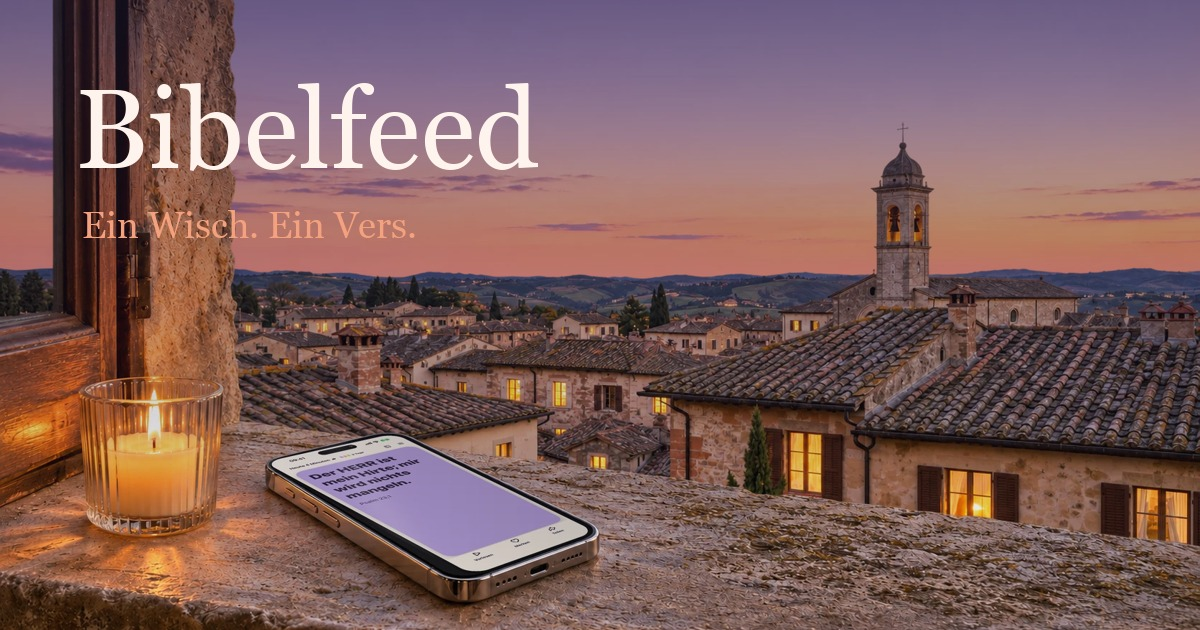
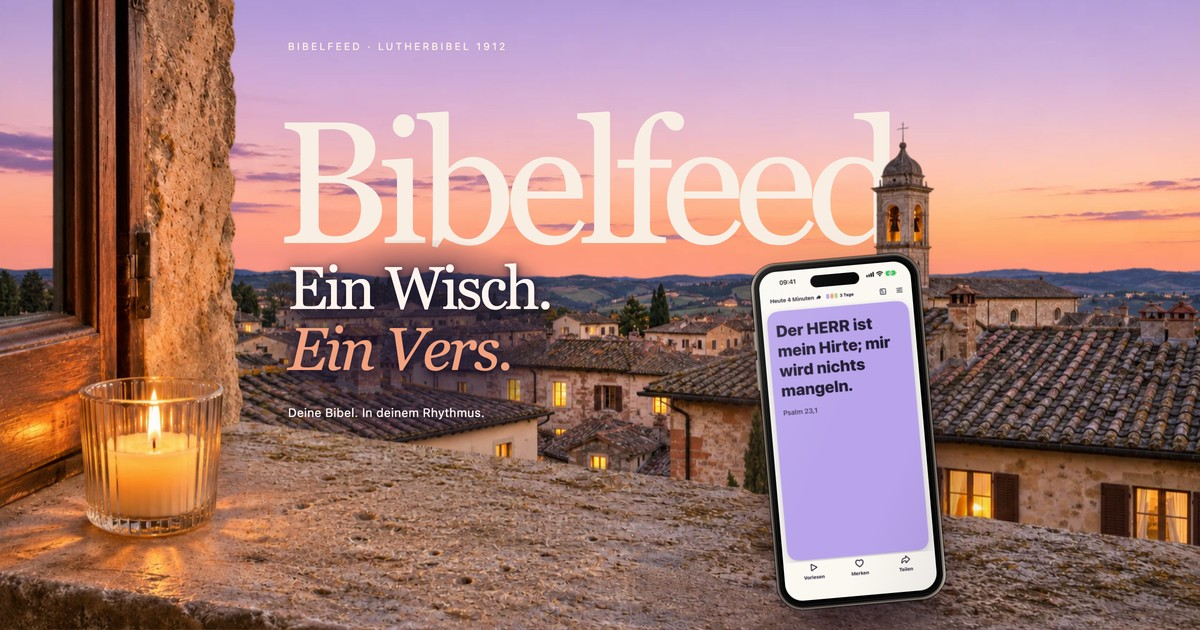
Hero: echte iPhone met echtem App-Screen, ruhiger Scroll, neue Teilbilder

diff --git a/fr/index.html b/fr/index.html
@@ -2,7 +2,7 @@
 <html lang="fr">
 <head><meta charset="utf-8"><meta name="viewport" content="width=device-width, initial-scale=1"><meta http-equiv="Content-Security-Policy" content="default-src 'self'; img-src 'self' data: https://bibelfeed.goatcounter.com; connect-src 'self' https://bibelfeed.goatcounter.com; style-src 'self'; font-src 'self'; script-src 'self' 'sha256-GoWYoYjQWsyZ1hkBcFPs6ibdLD/bIVbTo3fsq00e+0I='; object-src 'none'; base-uri 'self'; form-action 'none'"><title>Bible sur iPhone et iPad, lecture et écoute | Bibelfeed</title><meta name="description" content="Bible sur iPhone et iPad avec Bibelfeed : lis et écoute la Louis Segond 1910 hors ligne, sans compte. Bientôt sur l’App Store."><meta name="theme-color" content="#17121f"><meta name="color-scheme" content="dark"><link rel="canonical" href="https://bibelfeed.online/fr/"><link rel="alternate" hreflang="de" href="https://bibelfeed.online/"><link rel="alternate" hreflang="fr" href="https://bibelfeed.online/fr/"><link rel="alternate" hreflang="x-default" href="https://bibelfeed.online/"><meta property="og:type" content="website"><meta property="og:title" content="Bible sur iPhone et iPad, lecture et écoute | Bibelfeed"><meta property="og:description" content="Bible sur iPhone et iPad avec Bibelfeed : lis et écoute la Louis Segond 1910 hors ligne, sans compte. Bientôt sur l’App Store."><meta property="og:site_name" content="Bibelfeed"><meta property="og:url" content="https://bibelfeed.online/fr/"><meta property="og:locale" content="fr_FR"><meta property="og:locale:alternate" content="de_DE"><meta property="og:image" content="https://bibelfeed.online/assets/share-fr.webp"><meta property="og:image:width" content="1200"><meta property="og:image:height" content="630"><meta property="og:image:alt" content="Bible sur iPhone et iPad, lecture et écoute | Bibelfeed"><meta name="twitter:card" content="summary_large_image"><meta name="twitter:image" content="https://bibelfeed.online/assets/share-fr.webp"><meta name="twitter:image:alt" content="Bible sur iPhone et iPad, lecture et écoute | Bibelfeed"><link rel="icon" href="/assets/favicon-32.png" sizes="32x32"><link rel="apple-touch-icon" href="/assets/apple-touch-icon.png"><link rel="stylesheet" href="/style.css"><link rel="stylesheet" href="/v2.css"><script data-goatcounter="https://bibelfeed.goatcounter.com/count" async src="/assets/count.js"></script><script src="/demo.js" defer></script><script src="/site.js" defer></script><script type="application/ld+json">{"@context":"https://schema.org","@graph":[{"@context":"https://schema.org","@type":"MobileApplication","name":"Bibelfeed","operatingSystem":"iOS","applicationCategory":"ReferenceApplication","inLanguage":"fr","description":"Un verset par geste, Louis Segond 1910, lu à voix haute si tu veux. Sans compte, sans données.","url":"https://bibelfeed.online/fr/","screenshot":"https://bibelfeed.online/assets/screens/fr/w1-feed.webp","featureList":["App iOS pour iPhone et iPad","Lutherbibel 1912 et Louis Segond 1910, dans le domaine public","Allemand et français","Lecture hors ligne","Sans compte","Sans serveur propre pour tes données","Lecture vocale avec la voix de l’appareil","Garder des versets","Partager des versets en image","Widget","Plus : cartes et lecture vocale illimitées, thèmes Papier et Nuit"]},{"@type":"FAQPage","mainEntity":[{"@type":"Question","name":"Quelle traduction est proposée ?","acceptedAnswer":{"@type":"Answer","text":"Tu lis la Bible Louis Segond 1910 en français. En allemand, Bibelfeed utilise la Lutherbibel 1912. Ces deux textes appartiennent au domaine public."}},{"@type":"Question","name":"Puis-je lire sans connexion ?","acceptedAnswer":{"@type":"Answer","text":"Oui. Le texte biblique est inclus dans l’app. Tu peux lire sans connexion Internet. La lecture vocale utilise les voix installées sur ton appareil."}},{"@type":"Question","name":"Faut-il créer un compte ?","acceptedAnswer":{"@type":"Answer","text":"Non. Tu peux utiliser Bibelfeed sans inscription et sans te connecter à un compte."}},{"@type":"Question","name":"Quelles données l’app collecte-t-elle ?","acceptedAnswer":{"@type":"Answer","text":"L’app fonctionne sans serveur propre, sans compte et sans suivi. Tes versets gardés et ta position de lecture restent sur ton appareil. Apple gère les achats et les abonnements."}},{"@type":"Question","name":"Est-ce que je peux écouter les versets ?","acceptedAnswer":{"@type":"Answer","text":"Oui. La voix de ton iPhone peut lire les versets à la suite. Bibelfeed utilise les voix déjà installées sur ton appareil."}},{"@type":"Question","name":"Un widget est-il disponible ?","acceptedAnswer":{"@type":"Answer","text":"Oui. Dans la version 1.0, le widget « Verset du jour » fait partie de l’app gratuite. Tu peux l’ajouter depuis l’écran d’accueil de ton iPhone."}},{"@type":"Question","name":"Comment garder un verset ?","acceptedAnswer":{"@type":"Answer","text":"Touche le cœur dans l’app. Le verset est enregistré sur ton appareil pour que tu puisses le relire plus tard."}},{"@type":"Question","name":"Que propose Bibelfeed Plus ?","acceptedAnswer":{"@type":"Answer","text":"Plus permet de lire un nombre illimité de cartes et d’utiliser la lecture vocale sans limite. Il donne aussi accès aux thèmes Papier et Nuit. Le widget reste disponible sans Plus."}},{"@type":"Question","name":"Puis-je utiliser Bibelfeed sur iPad ?","acceptedAnswer":{"@type":"Answer","text":"Oui. Bibelfeed est disponible sur iPhone et iPad. Le site présente aussi un véritable écran de l’app sur iPad."}},{"@type":"Question","name":"Comment résilier un abonnement ?","acceptedAnswer":{"@type":"Answer","text":"Ouvre les réglages de ton iPhone ou de ton iPad, touche ton nom, puis Abonnements. Sélectionne Bibelfeed pour gérer la résiliation auprès d’Apple."}}]},{"@type":"Organization","@id":"https://bibelfeed.online/#organization","name":"Bibelfeed","url":"https://bibelfeed.online/","logo":"https://bibelfeed.online/assets/apple-touch-icon.png"},{"@type":"WebSite","@id":"https://bibelfeed.online/#website","name":"Bibelfeed","url":"https://bibelfeed.online/","inLanguage":["de","fr"],"publisher":{"@id":"https://bibelfeed.online/#organization"}}]}</script></head>
 <body><a class="skip" href="#feed">Aller au contenu</a><nav class="ribbon" aria-label="Marque-page"><i class="ribbon-track"></i><i class="ribbon-progress"></i><a href="#beginn" aria-label="Accueil" title="Accueil"><svg viewBox="0 0 24 24" aria-hidden="true"><path d="M12 2v3m0 14v3M2 12h3m14 0h3M5 5l2 2m10 10 2 2M5 19l2-2M17 7l2-2 M16 12a4 4 0 1 1-8 0a4 4 0 1 1 8 0"/></svg></a><a href="#feed" aria-label="Lire" title="Lire"><svg viewBox="0 0 24 24" aria-hidden="true"><path d="M5 3h14v18H5Z M8 16h8 M8 12h5"/></svg></a><a href="#hoeren" aria-label="Écouter" title="Écouter"><svg viewBox="0 0 24 24" aria-hidden="true"><path d="M8 4l12 8-12 8Z"/></svg></a><a href="#merken" aria-label="Garder" title="Garder"><svg viewBox="0 0 24 24" aria-hidden="true"><path d="M20.8 4.6a5.5 5.5 0 0 0-7.8 0L12 5.7l-1.1-1.1a5.5 5.5 0 0 0-7.8 7.8L12 21l8.8-8.6a5.5 5.5 0 0 0 0-7.8Z"/></svg></a><a href="#widget" aria-label="Widget" title="Widget"><svg viewBox="0 0 24 24" aria-hidden="true"><path d="M4 20C4 7 12 3 21 3c0 11-5 18-14 14M4 20L16 8"/></svg></a><a href="#ipad" aria-label="iPad" title="iPad"><svg viewBox="0 0 24 24" aria-hidden="true"><path d="M5 3h14v18H5Z M8 16h8 M8 12h5"/></svg></a><a href="#privat" aria-label="Confidentialité" title="Confidentialité"><svg viewBox="0 0 24 24" aria-hidden="true"><path d="M12 2l9 4v6c0 5-9 10-9 10S3 17 3 12V6Z"/></svg></a><a href="#schluss" aria-label="Bibelfeed" title="Bibelfeed"><svg viewBox="0 0 24 24" aria-hidden="true"><path d="M5 3h14v19l-7-5-7 5Z"/></svg></a></nav><main>
-<section class="hero" id="beginn"><div class="hero-stage"><picture><source media="(max-width:820px)" srcset="/assets/bf-stad-p-lucht.webp"><img class="sky" src="/assets/bf-stad-lucht.webp" alt="" width="1672" height="941" fetchpriority="high"></picture><p class="edition">BIBELFEED · LOUIS SEGOND 1910</p><h1 class="hero-name">Bibelfeed</h1><picture><source media="(max-width:820px)" srcset="/assets/bf-stad-p-stad.webp"><img class="city" src="/assets/bf-stad-stad.webp" alt="" width="1672" height="941" fetchpriority="high"></picture><div class="hero-intro"><p>Un geste. <br><em>Un verset.</em></p><span>Ta Bible. À ton rythme.</span></div><div class="foreground"><picture><source media="(max-width:820px)" srcset="/assets/bf-stad-p-voorgrond-fr.webp"><img class="sill" src="/assets/bf-stad-voorgrond-fr.webp" alt="" width="1672" height="941" fetchpriority="high"></picture></div><div class="dive-wash"></div></div></section>
+<section class="hero" id="beginn"><div class="hero-stage"><picture><source media="(max-width:820px)" srcset="/assets/bf-stad-p-lucht.webp"><img class="sky" src="/assets/bf-stad-lucht.webp" alt="" width="1672" height="941" fetchpriority="high"></picture><p class="edition">BIBELFEED · LOUIS SEGOND 1910</p><h1 class="hero-name">Bibelfeed</h1><picture><source media="(max-width:820px)" srcset="/assets/bf-stad-p-stad.webp"><img class="city" src="/assets/bf-stad-stad.webp" alt="" width="1672" height="941" fetchpriority="high"></picture><div class="hero-intro"><p>Un geste. <br><em>Un verset.</em></p><span>Ta Bible. À ton rythme.</span></div><div class="foreground"><picture><source media="(max-width:820px)" srcset="/assets/bf-stad-p-voorgrond-leeg.webp"><img class="sill" src="/assets/bf-stad-voorgrond-leeg.webp" alt="" width="1672" height="941" fetchpriority="high"></picture></div><div class="hero-device" aria-hidden="true"><div class="hd-body"><div class="hd-screen"><picture><source media="(max-width:820px)" srcset="/assets/screens/fr/w1-feed-hero-m.webp"><img src="/assets/screens/fr/w1-feed-xl.webp" alt="Bibelfeed sur iPhone : Psaume 23:1 en carte dans le fil" width="990" height="2151" fetchpriority="high" decoding="async"></picture><i class="hd-island"></i><i class="hd-glare"></i></div></div></div><div class="dive-wash"></div></div></section>
 <section class="feed act" id="feed"><div class="feed-stage pin"><div class="feed-copy"><p class="eyebrow">Louis Segond 1910</p><h2>Un geste. <br><em>Un verset.</em></h2><div class="large-verses"><blockquote class="large-verse large-0"><p>Cantique de David. L’Éternel est mon berger: je ne manquerai de rien.</p><cite>Psaume 23:1</cite></blockquote><blockquote class="large-verse large-1"><p>Dieu dit: Que la lumière soit! Et la lumière fut.</p><cite>Genèse 1:3</cite></blockquote><blockquote class="large-verse large-2"><p>Heureux ceux qui procurent la paix, car ils seront appelés fils de Dieu!</p><cite>Matthieu 5:9</cite></blockquote></div><p class="feed-note">Fais défiler la Bible.<br>Un verset à la fois.</p></div><div class="iphone live"><div class="screen"><div class="status"><span>09:41</span><i></i><span>▮▮▮ ▰</span></div><div class="app-top"><strong>Aujourd’hui <span class="minutes">3</span> <span class="minute-unit">minutes</span></strong><small class="demo-label">Démo</small><svg viewBox="0 0 24 24" aria-hidden="true"><path d="M5 3h14v18H5Z M8 16h8 M8 12h5"/></svg></div><div class="cards"><article class="verse-card feed-card card-0"><p>Cantique de David. L’Éternel est mon berger: je ne manquerai de rien.</p><span>Psaume 23:1</span></article><article class="verse-card feed-card card-1"><p>Dieu dit: Que la lumière soit! Et la lumière fut.</p><span>Genèse 1:3</span></article><article class="verse-card feed-card card-2"><p>Heureux ceux qui procurent la paix, car ils seront appelés fils de Dieu!</p><span>Matthieu 5:9</span></article></div><div class="app-actions"><button type="button" class="listen" aria-label="Écouter" ><svg viewBox="0 0 24 24" aria-hidden="true"><path d="M8 4l12 8-12 8Z"/></svg><span>Écouter</span></button><button type="button" class="save" aria-label="Garder" aria-pressed="false"><svg viewBox="0 0 24 24" aria-hidden="true"><path d="M20.8 4.6a5.5 5.5 0 0 0-7.8 0L12 5.7l-1.1-1.1a5.5 5.5 0 0 0-7.8 7.8L12 21l8.8-8.6a5.5 5.5 0 0 0 0-7.8Z"/></svg><span>Garder</span></button><button type="button" class="share" aria-label="Partager" ><svg viewBox="0 0 24 24" aria-hidden="true"><path d="M14 3l7 6-7 6V11C8 11 5 14 3 20c0-9 3-14 11-14Z"/></svg><span>Partager</span></button></div><div class="homebar"></div></div></div><div class="feed-glow"></div></div></section>
 <section class="hearing act" id="hoeren"><div class="hearing-stage pin"><div class="hearing-heading"><p class="eyebrow">Écoute les psaumes</p><h2>Des mots.<br><em>Qui restent.</em></h2><p>Avec la voix de ton iPhone.</p><p class="demo-note">Ici, un aperçu sans son.</p></div><div class="iphone hearing-phone"><div class="screen"><div class="status"><span>09:41</span><i></i><span>▮▮▮ ▰</span></div><div class="app-top"><strong>Aujourd’hui <span class="minutes">3</span> <span class="minute-unit">minutes</span></strong><small class="demo-label">Démo</small><svg viewBox="0 0 24 24" aria-hidden="true"><path d="M5 3h14v18H5Z M8 16h8 M8 12h5"/></svg></div><div class="cards"><article class="verse-card "><p>Heureux ceux qui procurent la paix, car ils seront appelés fils de Dieu!</p><span>Matthieu 5:9</span></article></div><div class="app-actions"><button type="button" class="listen" aria-label="Écouter" ><svg viewBox="0 0 24 24" aria-hidden="true"><path d="M8 4l12 8-12 8Z"/></svg><span>Écouter</span></button><button type="button" class="save" aria-label="Garder" aria-pressed="false"><svg viewBox="0 0 24 24" aria-hidden="true"><path d="M20.8 4.6a5.5 5.5 0 0 0-7.8 0L12 5.7l-1.1-1.1a5.5 5.5 0 0 0-7.8 7.8L12 21l8.8-8.6a5.5 5.5 0 0 0 0-7.8Z"/></svg><span>Garder</span></button><button type="button" class="share" aria-label="Partager" ><svg viewBox="0 0 24 24" aria-hidden="true"><path d="M14 3l7 6-7 6V11C8 11 5 14 3 20c0-9 3-14 11-14Z"/></svg><span>Partager</span></button></div><div class="homebar"></div></div></div><blockquote class="spoken"><p><span>Heureux</span> <span>ceux</span> <span>qui</span> <span>procurent</span> <span>la</span> <span>paix,</span> <span>car</span> <span>ils</span> <span>seront</span> <span>appelés</span> <span>fils</span> <span>de</span> <span>Dieu!</span></p><cite>Matthieu 5:9</cite></blockquote></div></section>
 <section class="saving act" id="merken"><div class="saving-copy"><p class="eyebrow">Garde tes versets préférés</p><h2>Ce verset,<br>tu veux le <em>garder.</em></h2><p>Touche le cœur pour le retrouver.</p><button class="save-main" type="button" aria-pressed="false"><svg viewBox="0 0 24 24" aria-hidden="true"><path d="M20.8 4.6a5.5 5.5 0 0 0-7.8 0L12 5.7l-1.1-1.1a5.5 5.5 0 0 0-7.8 7.8L12 21l8.8-8.6a5.5 5.5 0 0 0 0-7.8Z"/></svg> Garder ce verset</button><p class="save-status" role="status">Ton verset. À relire.</p></div><div class="saved-stack"><article class="verse-card stack-back"><p>Dieu dit: Que la lumière soit! Et la lumière fut.</p><span>Genèse 1:3</span></article><article class="verse-card stack-mid"><p>Heureux ceux qui procurent la paix, car ils seront appelés fils de Dieu!</p><span>Matthieu 5:9</span></article><article class="verse-card stack-front"><p>Cantique de David. L’Éternel est mon berger: je ne manquerai de rien.</p><span>Psaume 23:1</span></article></div></section>

diff --git a/index.html b/index.html
@@ -2,7 +2,7 @@
 <html lang="de">
 <head><meta charset="utf-8"><meta name="viewport" content="width=device-width, initial-scale=1"><meta http-equiv="Content-Security-Policy" content="default-src 'self'; img-src 'self' data: https://bibelfeed.goatcounter.com; connect-src 'self' https://bibelfeed.goatcounter.com; style-src 'self'; font-src 'self'; script-src 'self' 'sha256-8dvEev36+kNMn2IsNUdfTgS76WrqVsB4FCf6qVeBd/0='; object-src 'none'; base-uri 'self'; form-action 'none'"><title>Bibel lesen und hören auf iPhone und iPad | Bibelfeed</title><meta name="description" content="Bibel lesen und hören mit Bibelfeed: Lutherbibel 1912 und Louis Segond 1910 offline auf iPhone und iPad, ohne Konto. Bald im App Store."><meta name="theme-color" content="#17121f"><meta name="color-scheme" content="dark"><link rel="canonical" href="https://bibelfeed.online/"><link rel="alternate" hreflang="de" href="https://bibelfeed.online/"><link rel="alternate" hreflang="fr" href="https://bibelfeed.online/fr/"><link rel="alternate" hreflang="x-default" href="https://bibelfeed.online/"><meta property="og:type" content="website"><meta property="og:title" content="Bibel lesen und hören auf iPhone und iPad | Bibelfeed"><meta property="og:description" content="Bibel lesen und hören mit Bibelfeed: Lutherbibel 1912 und Louis Segond 1910 offline auf iPhone und iPad, ohne Konto. Bald im App Store."><meta property="og:site_name" content="Bibelfeed"><meta property="og:url" content="https://bibelfeed.online/"><meta property="og:locale" content="de_DE"><meta property="og:locale:alternate" content="fr_FR"><meta property="og:image" content="https://bibelfeed.online/assets/share-de.webp"><meta property="og:image:width" content="1200"><meta property="og:image:height" content="630"><meta property="og:image:alt" content="Bibel lesen und hören auf iPhone und iPad | Bibelfeed"><meta name="twitter:card" content="summary_large_image"><meta name="twitter:image" content="https://bibelfeed.online/assets/share-de.webp"><meta name="twitter:image:alt" content="Bibel lesen und hören auf iPhone und iPad | Bibelfeed"><link rel="icon" href="/assets/favicon-32.png" sizes="32x32"><link rel="apple-touch-icon" href="/assets/apple-touch-icon.png"><link rel="stylesheet" href="/style.css"><link rel="stylesheet" href="/v2.css"><script data-goatcounter="https://bibelfeed.goatcounter.com/count" async src="/assets/count.js"></script><script src="/demo.js" defer></script><script src="/site.js" defer></script><script type="application/ld+json">{"@context":"https://schema.org","@graph":[{"@context":"https://schema.org","@type":"MobileApplication","name":"Bibelfeed","operatingSystem":"iOS","applicationCategory":"ReferenceApplication","inLanguage":"de","description":"Ein Vers pro Wisch aus der Lutherbibel 1912, auf Wunsch vorgelesen. Kein Konto, keine Daten.","url":"https://bibelfeed.online/","screenshot":"https://bibelfeed.online/assets/screens/de/w1-feed.webp","featureList":["iOS-App für iPhone und iPad","Lutherbibel 1912 und Louis Segond 1910, beide gemeinfrei","Deutsch und Französisch","Offline lesen","Kein Konto","Kein eigener Server für deine Daten","Vorlesen mit der Gerätestimme","Verse merken","Verse als Bild teilen","Widget","Plus: unbegrenzt Karten und Vorlesen, Designs Papier und Nacht"]},{"@type":"FAQPage","mainEntity":[{"@type":"Question","name":"Welche Bibelübersetzung lese ich?","acceptedAnswer":{"@type":"Answer","text":"Du liest die Lutherbibel 1912 auf Deutsch. Auf Französisch verwendet Bibelfeed die Louis Segond 1910. Beide Texte sind gemeinfrei."}},{"@type":"Question","name":"Kann ich offline lesen?","acceptedAnswer":{"@type":"Answer","text":"Ja. Der Bibeltext ist in der App enthalten. Du kannst ohne Internetverbindung lesen. Die Vorlesefunktion verwendet die auf deinem Gerät installierten Stimmen."}},{"@type":"Question","name":"Brauche ich ein Konto?","acceptedAnswer":{"@type":"Answer","text":"Nein. Du kannst Bibelfeed ohne Registrierung und ohne Anmeldung verwenden."}},{"@type":"Question","name":"Welche Daten sammelt die App?","acceptedAnswer":{"@type":"Answer","text":"Die App hat keinen eigenen Server, kein Konto und kein Tracking. Gemerkte Verse und dein Lesestand bleiben auf deinem Gerät. Käufe und Abonnements wickelt Apple ab."}},{"@type":"Question","name":"Kann ich mir Verse vorlesen lassen?","acceptedAnswer":{"@type":"Answer","text":"Ja. Die Stimme deines iPhones liest die Verse fortlaufend vor. Verwendet werden die Stimmen, die auf deinem Gerät installiert sind."}},{"@type":"Question","name":"Gibt es ein Widget?","acceptedAnswer":{"@type":"Answer","text":"Ja. In Version 1.0 gehört das Widget „Vers des Tages“ zur kostenlosen App. Du fügst es über den Home-Bildschirm deines iPhones hinzu."}},{"@type":"Question","name":"Wie merke ich mir einen Vers?","acceptedAnswer":{"@type":"Answer","text":"Tippe in der App auf das Herz. Der Vers wird auf deinem Gerät gespeichert, damit du ihn später wiederlesen kannst."}},{"@type":"Question","name":"Was bietet Bibelfeed Plus?","acceptedAnswer":{"@type":"Answer","text":"Plus ermöglicht unbegrenzt viele Karten und unbegrenztes Vorlesen. Außerdem schaltet es die Designs Papier und Nacht frei. Das Widget ist auch ohne Plus verfügbar."}},{"@type":"Question","name":"Funktioniert Bibelfeed auf dem iPad?","acceptedAnswer":{"@type":"Answer","text":"Ja. Bibelfeed ist für iPhone und iPad verfügbar. Die Website zeigt auch einen echten Bildschirm der iPad-App."}},{"@type":"Question","name":"Wie kündige ich ein Abonnement?","acceptedAnswer":{"@type":"Answer","text":"Öffne die Einstellungen deines iPhones oder iPads, tippe auf deinen Namen und dann auf Abonnements. Dort kannst du Bibelfeed auswählen und das Abonnement über Apple kündigen."}}]},{"@type":"Organization","@id":"https://bibelfeed.online/#organization","name":"Bibelfeed","url":"https://bibelfeed.online/","logo":"https://bibelfeed.online/assets/apple-touch-icon.png"},{"@type":"WebSite","@id":"https://bibelfeed.online/#website","name":"Bibelfeed","url":"https://bibelfeed.online/","inLanguage":["de","fr"],"publisher":{"@id":"https://bibelfeed.online/#organization"}}]}</script></head>
 <body><a class="skip" href="#feed">Zum Inhalt</a><nav class="ribbon" aria-label="Lesebändchen"><i class="ribbon-track"></i><i class="ribbon-progress"></i><a href="#beginn" aria-label="Beginn" title="Beginn"><svg viewBox="0 0 24 24" aria-hidden="true"><path d="M12 2v3m0 14v3M2 12h3m14 0h3M5 5l2 2m10 10 2 2M5 19l2-2M17 7l2-2 M16 12a4 4 0 1 1-8 0a4 4 0 1 1 8 0"/></svg></a><a href="#feed" aria-label="Lesen" title="Lesen"><svg viewBox="0 0 24 24" aria-hidden="true"><path d="M5 3h14v18H5Z M8 16h8 M8 12h5"/></svg></a><a href="#hoeren" aria-label="Hören" title="Hören"><svg viewBox="0 0 24 24" aria-hidden="true"><path d="M8 4l12 8-12 8Z"/></svg></a><a href="#merken" aria-label="Merken" title="Merken"><svg viewBox="0 0 24 24" aria-hidden="true"><path d="M20.8 4.6a5.5 5.5 0 0 0-7.8 0L12 5.7l-1.1-1.1a5.5 5.5 0 0 0-7.8 7.8L12 21l8.8-8.6a5.5 5.5 0 0 0 0-7.8Z"/></svg></a><a href="#widget" aria-label="Widget" title="Widget"><svg viewBox="0 0 24 24" aria-hidden="true"><path d="M4 20C4 7 12 3 21 3c0 11-5 18-14 14M4 20L16 8"/></svg></a><a href="#ipad" aria-label="iPad" title="iPad"><svg viewBox="0 0 24 24" aria-hidden="true"><path d="M5 3h14v18H5Z M8 16h8 M8 12h5"/></svg></a><a href="#privat" aria-label="Privat" title="Privat"><svg viewBox="0 0 24 24" aria-hidden="true"><path d="M12 2l9 4v6c0 5-9 10-9 10S3 17 3 12V6Z"/></svg></a><a href="#schluss" aria-label="Bibelfeed" title="Bibelfeed"><svg viewBox="0 0 24 24" aria-hidden="true"><path d="M5 3h14v19l-7-5-7 5Z"/></svg></a></nav><main>
-<section class="hero" id="beginn"><div class="hero-stage"><picture><source media="(max-width:820px)" srcset="assets/bf-stad-p-lucht.webp"><img class="sky" src="assets/bf-stad-lucht.webp" alt="" width="1672" height="941" fetchpriority="high"></picture><p class="edition">BIBELFEED · LUTHERBIBEL 1912</p><h1 class="hero-name">Bibelfeed</h1><picture><source media="(max-width:820px)" srcset="assets/bf-stad-p-stad.webp"><img class="city" src="assets/bf-stad-stad.webp" alt="" width="1672" height="941" fetchpriority="high"></picture><div class="hero-intro"><p>Ein Wisch. <br><em>Ein Vers.</em></p><span>Deine Bibel. In deinem Rhythmus.</span></div><div class="foreground"><picture><source media="(max-width:820px)" srcset="assets/bf-stad-p-voorgrond.webp"><img class="sill" src="assets/bf-stad-voorgrond.webp" alt="" width="1672" height="941" fetchpriority="high"></picture></div><div class="dive-wash"></div></div></section>
+<section class="hero" id="beginn"><div class="hero-stage"><picture><source media="(max-width:820px)" srcset="assets/bf-stad-p-lucht.webp"><img class="sky" src="assets/bf-stad-lucht.webp" alt="" width="1672" height="941" fetchpriority="high"></picture><p class="edition">BIBELFEED · LUTHERBIBEL 1912</p><h1 class="hero-name">Bibelfeed</h1><picture><source media="(max-width:820px)" srcset="assets/bf-stad-p-stad.webp"><img class="city" src="assets/bf-stad-stad.webp" alt="" width="1672" height="941" fetchpriority="high"></picture><div class="hero-intro"><p>Ein Wisch. <br><em>Ein Vers.</em></p><span>Deine Bibel. In deinem Rhythmus.</span></div><div class="foreground"><picture><source media="(max-width:820px)" srcset="assets/bf-stad-p-voorgrond-leeg.webp"><img class="sill" src="assets/bf-stad-voorgrond-leeg.webp" alt="" width="1672" height="941" fetchpriority="high"></picture></div><div class="hero-device" aria-hidden="true"><div class="hd-body"><div class="hd-screen"><picture><source media="(max-width:820px)" srcset="/assets/screens/de/w1-feed-hero-m.webp"><img src="/assets/screens/de/w1-feed-xl.webp" alt="Bibelfeed auf dem iPhone: Psalm 23,1 als Karte im Feed" width="990" height="2151" fetchpriority="high" decoding="async"></picture><i class="hd-island"></i><i class="hd-glare"></i></div></div></div><div class="dive-wash"></div></div></section>
 <section class="feed act" id="feed"><div class="feed-stage pin"><div class="feed-copy"><p class="eyebrow">Lutherbibel 1912</p><h2>Ein Wisch. <br><em>Ein Vers.</em></h2><div class="large-verses"><blockquote class="large-verse large-0"><p>Ein Psalm Davids. Der HERR ist mein Hirte; mir wird nichts mangeln.</p><cite>Psalm 23,1</cite></blockquote><blockquote class="large-verse large-1"><p>Und Gott sprach: Es werde Licht! und es ward Licht.</p><cite>1. Mose 1,3</cite></blockquote><blockquote class="large-verse large-2"><p>Selig sind die Friedfertigen; denn sie werden Gottes Kinder heißen.</p><cite>Matthäus 5,9</cite></blockquote></div><p class="feed-note">Scroll durch die Bibel.<br>Einen Vers nach dem anderen.</p></div><div class="iphone live"><div class="screen"><div class="status"><span>09:41</span><i></i><span>▮▮▮ ▰</span></div><div class="app-top"><strong>Heute <span class="minutes">3</span> <span class="minute-unit">Minuten</span></strong><small class="demo-label">Demo</small><svg viewBox="0 0 24 24" aria-hidden="true"><path d="M5 3h14v18H5Z M8 16h8 M8 12h5"/></svg></div><div class="cards"><article class="verse-card feed-card card-0"><p>Ein Psalm Davids. Der HERR ist mein Hirte; mir wird nichts mangeln.</p><span>Psalm 23,1</span></article><article class="verse-card feed-card card-1"><p>Und Gott sprach: Es werde Licht! und es ward Licht.</p><span>1. Mose 1,3</span></article><article class="verse-card feed-card card-2"><p>Selig sind die Friedfertigen; denn sie werden Gottes Kinder heißen.</p><span>Matthäus 5,9</span></article></div><div class="app-actions"><button type="button" class="listen" aria-label="Vorlesen" ><svg viewBox="0 0 24 24" aria-hidden="true"><path d="M8 4l12 8-12 8Z"/></svg><span>Vorlesen</span></button><button type="button" class="save" aria-label="Merken" aria-pressed="false"><svg viewBox="0 0 24 24" aria-hidden="true"><path d="M20.8 4.6a5.5 5.5 0 0 0-7.8 0L12 5.7l-1.1-1.1a5.5 5.5 0 0 0-7.8 7.8L12 21l8.8-8.6a5.5 5.5 0 0 0 0-7.8Z"/></svg><span>Merken</span></button><button type="button" class="share" aria-label="Teilen" ><svg viewBox="0 0 24 24" aria-hidden="true"><path d="M14 3l7 6-7 6V11C8 11 5 14 3 20c0-9 3-14 11-14Z"/></svg><span>Teilen</span></button></div><div class="homebar"></div></div></div><div class="feed-glow"></div></div></section>
 <section class="hearing act" id="hoeren"><div class="hearing-stage pin"><div class="hearing-heading"><p class="eyebrow">Psalmen und Verse hören</p><h2>Worte.<br><em>Die bleiben.</em></h2><p>Die Stimme deines iPhones liest fortlaufend.</p><p class="demo-note">Hier als stille Vorschau.</p></div><div class="iphone hearing-phone"><div class="screen"><div class="status"><span>09:41</span><i></i><span>▮▮▮ ▰</span></div><div class="app-top"><strong>Heute <span class="minutes">3</span> <span class="minute-unit">Minuten</span></strong><small class="demo-label">Demo</small><svg viewBox="0 0 24 24" aria-hidden="true"><path d="M5 3h14v18H5Z M8 16h8 M8 12h5"/></svg></div><div class="cards"><article class="verse-card "><p>Selig sind die Friedfertigen; denn sie werden Gottes Kinder heißen.</p><span>Matthäus 5,9</span></article></div><div class="app-actions"><button type="button" class="listen" aria-label="Vorlesen" ><svg viewBox="0 0 24 24" aria-hidden="true"><path d="M8 4l12 8-12 8Z"/></svg><span>Vorlesen</span></button><button type="button" class="save" aria-label="Merken" aria-pressed="false"><svg viewBox="0 0 24 24" aria-hidden="true"><path d="M20.8 4.6a5.5 5.5 0 0 0-7.8 0L12 5.7l-1.1-1.1a5.5 5.5 0 0 0-7.8 7.8L12 21l8.8-8.6a5.5 5.5 0 0 0 0-7.8Z"/></svg><span>Merken</span></button><button type="button" class="share" aria-label="Teilen" ><svg viewBox="0 0 24 24" aria-hidden="true"><path d="M14 3l7 6-7 6V11C8 11 5 14 3 20c0-9 3-14 11-14Z"/></svg><span>Teilen</span></button></div><div class="homebar"></div></div></div><blockquote class="spoken"><p><span>Selig</span> <span>sind</span> <span>die</span> <span>Friedfertigen;</span> <span>denn</span> <span>sie</span> <span>werden</span> <span>Gottes</span> <span>Kinder</span> <span>heißen.</span></p><cite>Matthäus 5,9</cite></blockquote></div></section>
 <section class="saving act" id="merken"><div class="saving-copy"><p class="eyebrow">Mit dem Herz gespeichert</p><h2>Diesen Vers<br>willst du <em>behalten.</em></h2><p>Speichere ihn mit dem Herz.</p><button class="save-main" type="button" aria-pressed="false"><svg viewBox="0 0 24 24" aria-hidden="true"><path d="M20.8 4.6a5.5 5.5 0 0 0-7.8 0L12 5.7l-1.1-1.1a5.5 5.5 0 0 0-7.8 7.8L12 21l8.8-8.6a5.5 5.5 0 0 0 0-7.8Z"/></svg> Diesen Vers merken</button><p class="save-status" role="status">Dein Vers. Zum Wiederlesen.</p></div><div class="saved-stack"><article class="verse-card stack-back"><p>Und Gott sprach: Es werde Licht! und es ward Licht.</p><span>1. Mose 1,3</span></article><article class="verse-card stack-mid"><p>Selig sind die Friedfertigen; denn sie werden Gottes Kinder heißen.</p><span>Matthäus 5,9</span></article><article class="verse-card stack-front"><p>Ein Psalm Davids. Der HERR ist mein Hirte; mir wird nichts mangeln.</p><span>Psalm 23,1</span></article></div></section>

diff --git a/fr/confidentialite/index.html b/fr/confidentialite/index.html
@@ -1,4 +1,4 @@
 <!doctype html>
 <html lang="fr">
 <head><meta charset="utf-8"><meta name="viewport" content="width=device-width, initial-scale=1"><meta http-equiv="Content-Security-Policy" content="default-src 'self'; img-src 'self' data: https://bibelfeed.goatcounter.com; connect-src 'self' https://bibelfeed.goatcounter.com; style-src 'self'; font-src 'self'; script-src 'self'; object-src 'none'; base-uri 'self'; form-action 'none'"><title>Confidentialité | Bibelfeed</title><meta name="description" content="Confidentialité de Bibelfeed : découvre comment Bibelfeed traite les données sur ton appareil et les visites sur ce site."><meta name="theme-color" content="#17121f"><meta name="color-scheme" content="dark"><link rel="canonical" href="https://bibelfeed.online/fr/confidentialite/"><link rel="alternate" hreflang="de" href="https://bibelfeed.online/datenschutz/"><link rel="alternate" hreflang="fr" href="https://bibelfeed.online/fr/confidentialite/"><link rel="alternate" hreflang="x-default" href="https://bibelfeed.online/datenschutz/"><meta property="og:type" content="website"><meta property="og:title" content="Confidentialité | Bibelfeed"><meta property="og:description" content="Confidentialité de Bibelfeed : découvre comment Bibelfeed traite les données sur ton appareil et les visites sur ce site."><meta property="og:site_name" content="Bibelfeed"><meta property="og:url" content="https://bibelfeed.online/fr/confidentialite/"><meta property="og:locale" content="fr_FR"><meta property="og:locale:alternate" content="de_DE"><meta property="og:image" content="https://bibelfeed.online/assets/mag-psalm-og.webp"><meta property="og:image:width" content="1200"><meta property="og:image:height" content="630"><meta property="og:image:alt" content="Confidentialité | Bibelfeed"><meta name="twitter:card" content="summary_large_image"><meta name="twitter:image" content="https://bibelfeed.online/assets/mag-psalm-og.webp"><meta name="twitter:image:alt" content="Confidentialité | Bibelfeed"><link rel="icon" href="/assets/favicon-32.png" sizes="32x32"><link rel="apple-touch-icon" href="/assets/apple-touch-icon.png"><link rel="stylesheet" href="/style.css"><link rel="stylesheet" href="/v2.css"><script data-goatcounter="https://bibelfeed.goatcounter.com/count" async src="/assets/count.js"></script></head>
-<body class="document-page"><div class="wrap"><header><a class="merk" href="/fr/">Bibelfeed</a><nav><a href="/fr/magazine/">Magazine</a><a href="/datenschutz/">DE</a></nav></header><main class="pagina smal"><h1>Confidentialité</h1><p class="datum">Mise à jour : 15 novembre 2026</p><h2>En bref</h2><p>Bibelfeed ne collecte aucune donnée. L’app n’a pas de serveur, pas de compte, pas de publicité et aucun outil d’analyse.</p><h2>Ce qui reste sur ton appareil</h2><p>Tes versets gardés, ta position dans le fil, ton temps de lecture et ta série de jours sont enregistrés uniquement sur ton iPhone ou iPad. Si tu supprimes l’app, tout disparaît.</p><h2>Lecture audio</h2><p>Les versets sont lus par la synthèse vocale d’iOS, directement sur ton appareil.</p><h2>Notifications</h2><p>Les rappels sont programmés localement sur ton appareil. L’app ne demande l’autorisation que lorsque tu actives un rappel.</p><h2>Achats</h2><p>Apple gère les achats et les abonnements. Nous ne voyons ni les données de paiement ni qui a acheté.</p><h2>Ce site</h2><p>Pas de cookies, pas de traceurs, pas de scripts tiers. L’hébergeur conserve les adresses IP dans ses journaux.</p><h2>Tes droits et qui nous sommes</h2><p>Pour toute question sur tes données, écris à <a href="mailto:dannyschuurman@gmail.com">dannyschuurman@gmail.com</a>. Tu peux aussi porter plainte auprès de l’autorité néerlandaise de protection des données (Autoriteit Persoonsgegevens).<br><br>Éditeur : Danny Schuurman, Pays-Bas, dannyschuurman@gmail.com</p><p class="website-analytics">Ce site compte les visites avec GoatCounter, sans cookies et sans données personnelles. Aucune bannière de cookies n’est nécessaire.</p></main><footer><a href="/fr/">Bibelfeed</a><nav class="v2-topic-nav" aria-label="Thèmes"><a href="/fr/verset-du-jour/">Un verset du jour, le temps de le lire</a><a href="/fr/psaumes/">Lire les psaumes, une image à la fois</a><a href="/fr/reconfort/">Des versets pour les jours difficiles</a><a href="/fr/bible-hors-ligne/">Lire la Bible hors ligne sur ton iPhone</a><a href="/fr/louis-segond-1910/">Louis Segond 1910</a></nav></footer></div></body></html>
+<body class="document-page"><div class="wrap"><header><a class="merk" href="/fr/">Bibelfeed</a><nav><a href="/fr/magazine/">Magazine</a><a href="/datenschutz/">DE</a></nav></header><main class="pagina smal"><h1>Confidentialité</h1><p class="datum">Mise à jour : 15 novembre 2026</p><h2>En bref</h2><p>Bibelfeed ne collecte aucune donnée. L’app n’a pas de serveur, pas de compte, pas de publicité et aucun outil d’analyse.</p><h2>Ce qui reste sur ton appareil</h2><p>Tes versets gardés, ta position dans le fil, ton temps de lecture et ta série de jours sont enregistrés uniquement sur ton iPhone ou iPad. Si tu supprimes l’app, tout disparaît.</p><h2>Lecture audio</h2><p>Les versets sont lus par la synthèse vocale d’iOS, directement sur ton appareil.</p><h2>Notifications</h2><p>Les rappels sont programmés localement sur ton appareil. L’app ne demande l’autorisation que lorsque tu actives un rappel.</p><h2>Achats</h2><p>Apple gère les achats et les abonnements. Nous ne voyons ni les données de paiement ni qui a acheté.</p><h2>Ce site</h2><p>Pas de cookies, pas de traceurs, pas de scripts tiers. L’hébergeur conserve les adresses IP dans ses journaux.</p><h2>Tes droits et qui nous sommes</h2><p>Pour toute question sur tes données, écris à <a href="mailto:dannyschuurman@gmail.com">dannyschuurman@gmail.com</a>. Tu peux aussi porter plainte auprès de l’autorité néerlandaise de protection des données (Autoriteit Persoonsgegevens).<br><br>Éditeur : Danny Schuurman, Pays-Bas, dannyschuurman@gmail.com</p><p class="website-analytics">Ce site compte les visites avec GoatCounter, sans cookies et sans données personnelles. Aucune bannière de cookies n’est nécessaire.</p><p class="website-analytics">Ce site compte les visites avec GoatCounter, sans cookies et sans données personnelles. Aucune bannière de cookies n’est nécessaire.</p></main><footer><a href="/fr/">Bibelfeed</a><nav class="v2-topic-nav" aria-label="Thèmes"><a href="/fr/verset-du-jour/">Un verset du jour, le temps de le lire</a><a href="/fr/psaumes/">Lire les psaumes, une image à la fois</a><a href="/fr/reconfort/">Des versets pour les jours difficiles</a><a href="/fr/bible-hors-ligne/">Lire la Bible hors ligne sur ton iPhone</a><a href="/fr/louis-segond-1910/">Louis Segond 1910</a></nav></footer></div></body></html>

diff --git a/datenschutz/index.html b/datenschutz/index.html
@@ -1,4 +1,4 @@
 <!doctype html>
 <html lang="de">
 <head><meta charset="utf-8"><meta name="viewport" content="width=device-width, initial-scale=1"><meta http-equiv="Content-Security-Policy" content="default-src 'self'; img-src 'self' data: https://bibelfeed.goatcounter.com; connect-src 'self' https://bibelfeed.goatcounter.com; style-src 'self'; font-src 'self'; script-src 'self'; object-src 'none'; base-uri 'self'; form-action 'none'"><title>Datenschutz | Bibelfeed</title><meta name="description" content="Datenschutz bei Bibelfeed: Hier erfährst du, wie Bibelfeed mit Daten auf deinem Gerät und mit Besuchen auf dieser Website umgeht."><meta name="theme-color" content="#17121f"><meta name="color-scheme" content="dark"><link rel="canonical" href="https://bibelfeed.online/datenschutz/"><link rel="alternate" hreflang="de" href="https://bibelfeed.online/datenschutz/"><link rel="alternate" hreflang="fr" href="https://bibelfeed.online/fr/confidentialite/"><link rel="alternate" hreflang="x-default" href="https://bibelfeed.online/datenschutz/"><meta property="og:type" content="website"><meta property="og:title" content="Datenschutz | Bibelfeed"><meta property="og:description" content="Datenschutz bei Bibelfeed: Hier erfährst du, wie Bibelfeed mit Daten auf deinem Gerät und mit Besuchen auf dieser Website umgeht."><meta property="og:site_name" content="Bibelfeed"><meta property="og:url" content="https://bibelfeed.online/datenschutz/"><meta property="og:locale" content="de_DE"><meta property="og:locale:alternate" content="fr_FR"><meta property="og:image" content="https://bibelfeed.online/assets/mag-psalm-og.webp"><meta property="og:image:width" content="1200"><meta property="og:image:height" content="630"><meta property="og:image:alt" content="Datenschutz | Bibelfeed"><meta name="twitter:card" content="summary_large_image"><meta name="twitter:image" content="https://bibelfeed.online/assets/mag-psalm-og.webp"><meta name="twitter:image:alt" content="Datenschutz | Bibelfeed"><link rel="icon" href="/assets/favicon-32.png" sizes="32x32"><link rel="apple-touch-icon" href="/assets/apple-touch-icon.png"><link rel="stylesheet" href="/style.css"><link rel="stylesheet" href="/v2.css"><script data-goatcounter="https://bibelfeed.goatcounter.com/count" async src="/assets/count.js"></script></head>
-<body class="document-page"><div class="wrap"><header><a class="merk" href="/">Bibelfeed</a><nav><a href="/magazin/">Magazine</a><a href="/fr/confidentialite/">FR</a></nav></header><main class="pagina smal"><h1>Datenschutz</h1><p class="datum">Stand: 15. November 2026</p><h2>Kurz gesagt</h2><p>Bibelfeed sammelt keine Daten. Die App hat keinen eigenen Server, kein Konto, keine Werbung und keine Analyse-Werkzeuge.</p><h2>Was auf deinem Gerät bleibt</h2><p>Deine gemerkten Verse, deine Stelle im Feed, deine Lesezeit und deine Leseserie speichert die App nur auf deinem iPhone oder iPad. Wenn du die App löschst, ist alles weg.</p><h2>Vorlesen</h2><p>Die Verse werden mit der Sprachausgabe von iOS vorgelesen, direkt auf deinem Gerät.</p><h2>Mitteilungen</h2><p>Erinnerungen plant die App lokal auf deinem Gerät. Sie fragt erst um Erlaubnis, wenn du eine Erinnerung einschaltest.</p><h2>Käufe</h2><p>Apple wickelt Käufe und Abos ab. Wir sehen weder Zahlungsdaten noch, wer etwas gekauft hat.</p><h2>Diese Website</h2><p>Keine Cookies, keine Tracker, keine Skripte von Dritten. Der Webhoster speichert IP-Adressen in seinen Protokollen.</p><h2>Deine Rechte und wer wir sind</h2><p>Für Fragen zu deinen Daten schreib an <a href="mailto:dannyschuurman@gmail.com">dannyschuurman@gmail.com</a>. Du kannst dich auch bei der niederländischen Datenschutzbehörde (Autoriteit Persoonsgegevens) beschweren.<br><br>Anbieter: Danny Schuurman, Niederlande, dannyschuurman@gmail.com</p><p class="website-analytics">Diese Website zählt Besuche mit GoatCounter ohne Cookies und ohne personenbezogene Daten. Dafür ist kein Cookiebanner erforderlich.</p></main><footer><a href="/">Bibelfeed</a><nav class="v2-topic-nav" aria-label="Themen"><a href="/vers-des-tages/">Vers des Tages</a><a href="/psalmen/">Psalmen lesen</a><a href="/trost/">Bibelverse für schwierige Tage</a><a href="/bibel-offline/">Die Bibel offline auf dem iPhone lesen</a><a href="/lutherbibel-1912/">Lutherbibel 1912</a></nav></footer></div></body></html>
+<body class="document-page"><div class="wrap"><header><a class="merk" href="/">Bibelfeed</a><nav><a href="/magazin/">Magazine</a><a href="/fr/confidentialite/">FR</a></nav></header><main class="pagina smal"><h1>Datenschutz</h1><p class="datum">Stand: 15. November 2026</p><h2>Kurz gesagt</h2><p>Bibelfeed sammelt keine Daten. Die App hat keinen eigenen Server, kein Konto, keine Werbung und keine Analyse-Werkzeuge.</p><h2>Was auf deinem Gerät bleibt</h2><p>Deine gemerkten Verse, deine Stelle im Feed, deine Lesezeit und deine Leseserie speichert die App nur auf deinem iPhone oder iPad. Wenn du die App löschst, ist alles weg.</p><h2>Vorlesen</h2><p>Die Verse werden mit der Sprachausgabe von iOS vorgelesen, direkt auf deinem Gerät.</p><h2>Mitteilungen</h2><p>Erinnerungen plant die App lokal auf deinem Gerät. Sie fragt erst um Erlaubnis, wenn du eine Erinnerung einschaltest.</p><h2>Käufe</h2><p>Apple wickelt Käufe und Abos ab. Wir sehen weder Zahlungsdaten noch, wer etwas gekauft hat.</p><h2>Diese Website</h2><p>Keine Cookies, keine Tracker, keine Skripte von Dritten. Der Webhoster speichert IP-Adressen in seinen Protokollen.</p><h2>Deine Rechte und wer wir sind</h2><p>Für Fragen zu deinen Daten schreib an <a href="mailto:dannyschuurman@gmail.com">dannyschuurman@gmail.com</a>. Du kannst dich auch bei der niederländischen Datenschutzbehörde (Autoriteit Persoonsgegevens) beschweren.<br><br>Anbieter: Danny Schuurman, Niederlande, dannyschuurman@gmail.com</p><p class="website-analytics">Diese Website zählt Besuche mit GoatCounter ohne Cookies und ohne personenbezogene Daten. Dafür ist kein Cookiebanner erforderlich.</p><p class="website-analytics">Diese Website zählt Besuche mit GoatCounter ohne Cookies und ohne personenbezogene Daten. Dafür ist kein Cookiebanner erforderlich.</p></main><footer><a href="/">Bibelfeed</a><nav class="v2-topic-nav" aria-label="Themen"><a href="/vers-des-tages/">Vers des Tages</a><a href="/psalmen/">Psalmen lesen</a><a href="/trost/">Bibelverse für schwierige Tage</a><a href="/bibel-offline/">Die Bibel offline auf dem iPhone lesen</a><a href="/lutherbibel-1912/">Lutherbibel 1912</a></nav></footer></div></body></html>

diff --git a/style.css b/style.css
@@ -58,3 +58,21 @@
 @media(max-width:820px){.saving{padding-block:72px 110px}.saved-stack{width:min(230px,72vw);--w:min(230px,72vw)}.spoken{overflow-wrap:anywhere}}
 @media(prefers-reduced-motion:reduce){.hearing-stage{min-height:900px}.saved-stack .verse-card{transform:none!important}}
 .feed a:focus-visible,.feed button:focus-visible,.saving a:focus-visible,.saving button:focus-visible,.widget a:focus-visible,.widget button:focus-visible,.ipad a:focus-visible{outline-color:var(--ink)}
+
+/* 17-11 middag: echte, scherpe iPhone in de hero (geen telefoon meer in de foto) en lichte scrollanimatie. */
+.hero-device{position:absolute;z-index:6;right:22%;bottom:4svh;height:min(55svh,570px);aspect-ratio:.487;transform:rotate(-5deg);transform-origin:50% 60%;will-change:transform}
+.hd-body{position:absolute;inset:0;border-radius:15.5% / 7.2%;padding:1.7%;background:linear-gradient(100deg,#bfb3a6 0%,#6f655c 4%,#3b3530 12%,#2a2522 50%,#3b3530 88%,#6f655c 96%,#c8bcae 100%);box-shadow:0 0 0 1px #0007,inset 0 0 0 1.5px #f3e9dd55,0 40px 70px -18px #120a14cc,0 18px 30px -12px #120a1488,-30px 30px 80px -20px #f3a17e33}
+.hd-body:before,.hd-body:after{content:'';position:absolute;left:-1.1%;width:1.1%;border-radius:3px 0 0 3px;background:linear-gradient(90deg,#6d6259,#bdb1a5)}
+.hd-body:before{top:19%;height:5.5%}.hd-body:after{top:27%;height:9%}
+.hd-screen{position:relative;width:100%;height:100%;border-radius:14% / 6.5%;overflow:hidden;background:#050505;padding:3.4%;box-shadow:inset 0 0 0 1px #000,inset 0 0 0 2px #ffffff10}
+.hd-screen picture{display:block;width:100%;height:100%;border-radius:11.5% / 5.3%;overflow:hidden}.hd-screen img{display:block;width:100%;height:100%;object-fit:cover}
+.hd-island{position:absolute;left:50%;top:3.6%;width:30%;height:3.6%;transform:translateX(-50%);background:#000;border-radius:999px}
+.hd-glare{position:absolute;inset:0;background:linear-gradient(118deg,#ffffff1f 0%,#ffffff08 32%,#ffffff00 46%,#00000000 70%,#1a0f1a14 100%);pointer-events:none}
+@media(max-width:820px){
+ .hero-device{right:auto;left:50%;bottom:calc(84px + env(safe-area-inset-bottom));height:min(42svh,400px);transform:translateX(-50%) rotate(-4deg)}
+ .hero-name{top:14%}
+ .hero-intro{top:27%}
+}
+@media(max-height:700px) and (max-width:820px){.hero-device{height:min(38svh,400px)}}
+@media(prefers-reduced-motion:reduce){.hero-device{transform:rotate(-5deg)}}
+@media(prefers-reduced-motion:reduce) and (max-width:820px){.hero-device{transform:translateX(-50%) rotate(-4deg)}}

diff --git a/site.js b/site.js
@@ -18,6 +18,7 @@
  }
  function progress(id){const s=dimensions[id];return clamp((scrollY-s.top)/Math.max(1,s.height-dimensions.height));}
  function transform(el,value){el.style.transform=value;}
+ const dev=document.querySelector('.hero-device');
  function render(){
   queued=false;
   const y=scrollY, vh=dimensions.height;
@@ -27,9 +28,9 @@
   transform($('.ribbon-progress'),`scale${dimensions.mobile?'X':'Y'}(${clamp(y/dimensions.total)})`);
   if(!reduced.matches){
    const h=progress('beginn'), fall=phase(h,0,.42), dive=phase(h,.55,1);
-   transform($('.hero-name'),`translate3d(0,${fall*vh*.43}px,0)`);
+   transform($('.hero-name'),`translate3d(0,${-fall*vh*.06}px,0)`);$('.hero-name').style.opacity=1-phase(h,.18,.45);
    transform($('.city'),`translate3d(0,${-h*30}px,0) scale(${1+dive*.14})`);
-   transform($('.foreground'),`scale(${1+phase(h,0,.55)*.1+Math.pow(dive,2.5)*8})`);
+   transform($('.foreground'),`scale(${1+phase(h,0,.9)*.06})`);if(dev){const k=phase(h,.35,1),e=k*k*(3-2*k);transform(dev,dimensions.mobile?`translate3d(-50%,${-e*vh*.2}px,0) rotate(${-4+4*e}deg) scale(${1+e*1.15})`:`translate3d(${-e*innerWidth*.14}px,${-e*vh*.22}px,0) rotate(${-5+5*e}deg) scale(${1+e*1.25})`);}
    $('.hero-intro').style.opacity=1-phase(h,.52,.65);
    $('.edition').style.opacity=1-phase(h,.50,.63);
    $('.dive-wash').style.opacity=phase(h,.83,.99);
